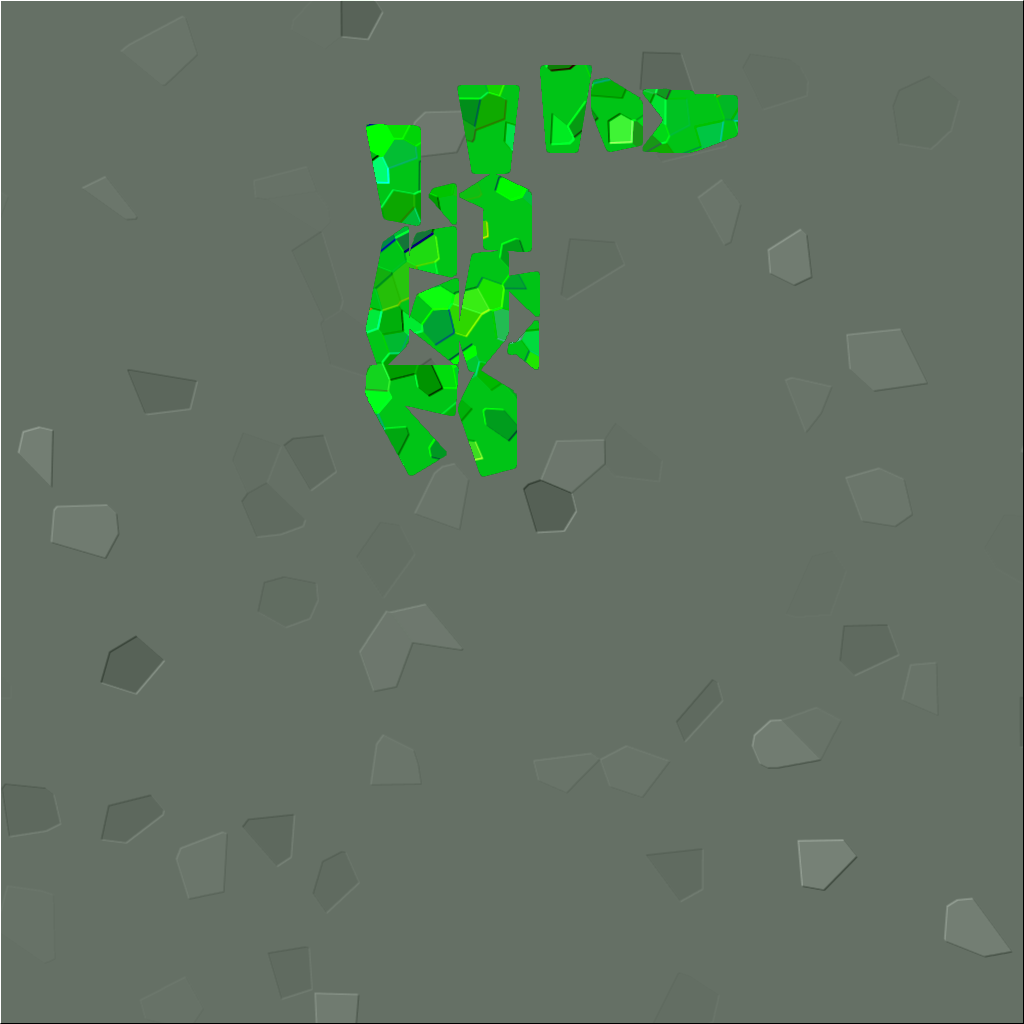
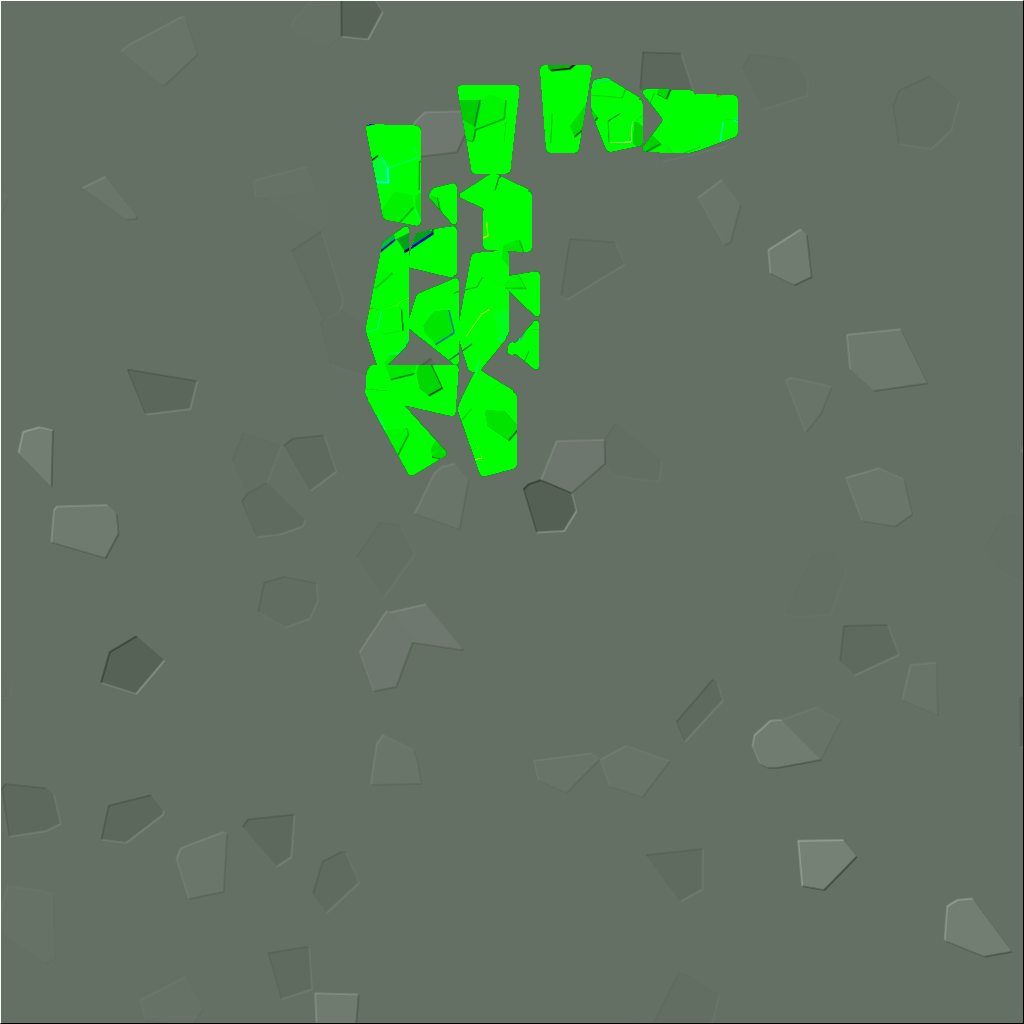
Glow maps + bloom = wow

Changed region(s): [[0.3438, 0.0625, 0.7188, 0.4688]]

diff --git a/src/kosmos/KosmosRenderer.java b/src/kosmos/KosmosRenderer.java
@@ -51,6 +51,7 @@ public class KosmosRenderer extends RendererMaster {
 	private FBO rendererFBO;
 
 	private PipelineMRT pipelineMRT;
+	private PipelineBloom pipelineBloom;
 	private FilterBlurMotion filterBlurMotion;
 	private PipelineDOF pipelineDOF;
 	private FilterTiltShift filterTiltShift;
@@ -78,13 +79,14 @@ public class KosmosRenderer extends RendererMaster {
 		this.rendererFBO = FBO.newFBO(displayScale).attachments(3).withAlphaChannel(true).disableTextureWrap().depthBuffer(DepthBufferType.TEXTURE).create();
 
 		this.pipelineMRT = new PipelineMRT();
+		this.pipelineBloom = new PipelineBloom();
 		this.filterBlurMotion = new FilterBlurMotion();
 		this.pipelineDOF = new PipelineDOF();
 		this.filterTiltShift = new FilterTiltShift(0.6f, 1.1f, 0.005f, 2.0f);
 		this.filterPixel = new FilterPixel(4.0f);
 		this.filterCRT = new FilterCRT(new Colour(0.5f, 1.0f, 0.5f), 0.175f, 0.175f, 1024.0f, 0.05f);
 		this.pipelinePaused = new PipelinePaused();
-		this.effect = 0;
+		this.effect = 1;
 
 		FlounderEvents.addEvent(new IEvent() {
 			private KeyButton c = new KeyButton(GLFW.GLFW_KEY_C);
@@ -185,8 +187,13 @@ public class KosmosRenderer extends RendererMaster {
 			case 0:
 				break;
 			case 1:
-				filterBlurMotion.applyFilter(output.getColourTexture(0), rendererFBO.getDepthTexture());
-				output = filterBlurMotion.fbo;
+				pipelineBloom.setBloomThreshold(0.6f);
+				pipelineBloom.renderPipeline(output);
+				output = pipelineBloom.getOutput();
+				filterTiltShift.applyFilter(output.getColourTexture(0));
+				output = filterTiltShift.fbo;
+				//filterBlurMotion.applyFilter(output.getColourTexture(0), rendererFBO.getDepthTexture());
+				//output = filterBlurMotion.fbo;
 				break;
 			case 2:
 				pipelineDOF.renderMRT(rendererFBO, output);
@@ -248,6 +255,7 @@ public class KosmosRenderer extends RendererMaster {
 		rendererFBO.delete();
 
 		pipelineMRT.dispose();
+		pipelineBloom.dispose();
 		filterBlurMotion.dispose();
 		pipelineDOF.dispose();
 		filterTiltShift.dispose();

diff --git a/src/kosmos/chunks/tiles/Tile.java b/src/kosmos/chunks/tiles/Tile.java
@@ -49,14 +49,14 @@ public class Tile {
 		return texture;
 	}
 
-	public static Vector3f hexagonSpace(Vector2f position, double length, Vector3f destination) {
+	public static Vector3f hexagonSpace(float x, float z, double length, Vector3f destination) {
 		if (destination == null) {
 			destination = new Vector3f();
 		}
 
-		destination.x = (float) (((Math.sqrt(3.0) / 3.0) * position.x - (position.y / 3.0f)) / length);
-		destination.y = (float) (-((Math.sqrt(3.0) / 3.0) * position.x + (position.y / 3.0f)) / length);
-		destination.z = (float) ((2.0 / 3.0) * position.y / length);
+		destination.x = (float) (((Math.sqrt(3.0) / 3.0) * x - (z / 3.0f)) / length);
+		destination.y = (float) (-((Math.sqrt(3.0) / 3.0) * x + (z / 3.0f)) / length);
+		destination.z = (float) ((2.0 / 3.0) * z / length);
 		return destination;
 	}
 

diff --git a/src/kosmos/chunks/Chunk.java b/src/kosmos/chunks/Chunk.java
@@ -10,6 +10,7 @@
 package kosmos.chunks;
 
 import flounder.entities.*;
+import flounder.logger.*;
 import flounder.maths.*;
 import flounder.maths.vectors.*;
 import flounder.physics.*;
@@ -199,7 +200,7 @@ public class Chunk extends Entity {
 		int height = (int) (KosmosChunks.getNoise().noise2(worldPos.x / 75.0f, worldPos.y / 75.0f) * 10.0f);
 
 		if (height >= 0) {
-			return height * 0.5f * 1.414f;
+			return height * 0.5f * (float) Math.sqrt(2.0);
 		} else {
 			return Float.NEGATIVE_INFINITY;
 		}
